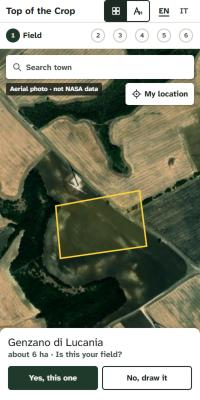
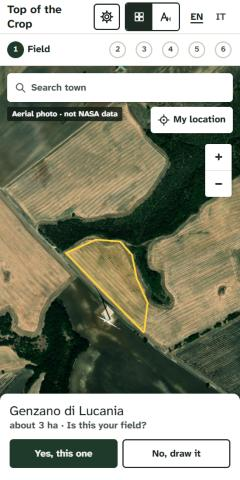
Trace the demo field from the photo, sharpen the map and add zoom buttons
- The demo outline now follows a real field east of Genzano (3.1 ha, traced
  by eye from the aerial photo) in place of the made-up rectangle
- The demo outline is hidden while the farmer draws their own field
- Sharper photos on high-density phone screens: the map loads the next level
  of detail there
- Zoom goes further in (to level 21, enlarging past the photos' real detail
  at tile level 19), with thumb-sized plus and minus buttons
- My location zooms closer

diff --git a/src/components/Map.tsx b/src/components/Map.tsx
@@ -1,6 +1,6 @@
 // All MapLibre code lives here, behind a small props interface, so tests can vi.mock this file.
 import "maplibre-gl/dist/maplibre-gl.css";
-import { Map as MapLibre, Marker, setWorkerUrl } from "maplibre-gl";
+import { Map as MapLibre, Marker, NavigationControl, setWorkerUrl } from "maplibre-gl";
 // MapLibre 6 ships its worker as a separate module. Let Vite bundle it and hand us the URL,
 // otherwise the worker cannot be found once the library itself has been bundled.
 import workerUrl from "maplibre-gl/dist/maplibre-gl-worker.mjs?worker&url";
@@ -35,6 +35,8 @@ export type MapProps = {
 };
 
 export const BASEMAP_TILES = "https://server.arcgisonline.com/ArcGIS/rest/services/World_Imagery/MapServer/tile/{z}/{y}/{x}";
+/** Beyond this level the tile server returns a "no data yet" picture, so never ask for more. */
+const BASEMAP_MAX_TILE_ZOOM = 19;
 const BASEMAP_ATTRIBUTION =
   'Tiles &copy; <a href="https://www.esri.com/" target="_blank" rel="noreferrer">Esri</a> &mdash; Source: Esri, i-cubed, USDA, USGS, AEX, GeoEye, Getmapping, Aerogrid, IGN, IGP, UPR-EGP, and the GIS User Community';
 
@@ -102,14 +104,24 @@ export default function Map({ centre, zoom, fieldOutline, drawnOutline, editable
       container: containerRef.current,
       center: initial.current.centre,
       zoom: initial.current.zoom,
-      maxZoom: 18.5,
+      // The photos hold real detail to tile level 19 (checked over Genzano); past that the map enlarges them,
+      // which still helps a thumb place a corner exactly.
+      maxZoom: 21,
       attributionControl: { compact: true },
       dragRotate: false,
       pitchWithRotate: false,
       style: {
         version: 8,
         sources: {
-          aerial: { type: "raster", tiles: [BASEMAP_TILES], tileSize: 256, maxzoom: 19, attribution: BASEMAP_ATTRIBUTION },
+          // On a sharp phone screen, treating each 256 px photo tile as 128 px makes the map load the next
+          // level of detail, so the picture is crisp instead of stretched over twice as many pixels.
+          aerial: {
+            type: "raster",
+            tiles: [BASEMAP_TILES],
+            tileSize: window.devicePixelRatio > 1 ? 128 : 256,
+            maxzoom: BASEMAP_MAX_TILE_ZOOM,
+            attribution: BASEMAP_ATTRIBUTION,
+          },
           field: { type: "geojson", data: polygonData(null) },
           drawn: { type: "geojson", data: polygonData(null) },
         },
@@ -123,6 +135,8 @@ export default function Map({ centre, zoom, fieldOutline, drawnOutline, editable
       },
     });
     map.touchZoomRotate.disableRotation();
+    // Plus and minus buttons, for anyone who does not pinch. Sized and placed by .maplibregl-ctrl-group in index.css.
+    map.addControl(new NavigationControl({ showCompass: false }), "top-right");
     map.on("load", () => setLoaded(true));
     map.on("click", (e) => {
       // A tap on a dot is not a tap on the map.

diff --git a/src/screens/FindField.tsx b/src/screens/FindField.tsx
@@ -14,7 +14,7 @@ import type { MapTarget } from "../components/Map";
 import { Button } from "../components/ui";
 
 /** Where the map opens before the bundle arrives: the Genzano demo field. */
-const DEMO_CENTRE: LngLat = [16.0617, 40.8631];
+const DEMO_CENTRE: LngLat = [16.0611, 40.8656];
 const OPEN_ZOOM = 15;
 
 type Mode =
@@ -154,7 +154,7 @@ export default function FindField() {
       return;
     }
     navigator.geolocation.getCurrentPosition(
-      (pos) => flyTo([pos.coords.longitude, pos.coords.latitude], 16),
+      (pos) => flyTo([pos.coords.longitude, pos.coords.latitude], 17),
       () => setLocError(true),
       { timeout: 10000, enableHighAccuracy: true },
     );
@@ -179,7 +179,8 @@ export default function FindField() {
       <Map
         centre={centre}
         zoom={OPEN_ZOOM}
-        fieldOutline={demoRing}
+        // While the farmer draws their own field the demo outline is out of the way, so only one shape shows.
+        fieldOutline={drawing ? null : demoRing}
         drawnOutline={drawn}
         editable={drawing}
         drawing={tracing}

diff --git a/src/index.css b/src/index.css
@@ -164,3 +164,14 @@
   border: 2px solid var(--tc-map-drawn);
   opacity: 0.85;
 }
+
+/* Map zoom buttons: thumb-sized, and placed under the search box and "My location" on the right. */
+/* The extra class beats the map library's own stylesheet, which loads later. */
+.maplibregl-map .maplibregl-ctrl-top-right {
+  top: 7.5rem;
+  right: 0.25rem;
+}
+.maplibregl-map .maplibregl-ctrl-group button {
+  width: 44px;
+  height: 44px;
+}
